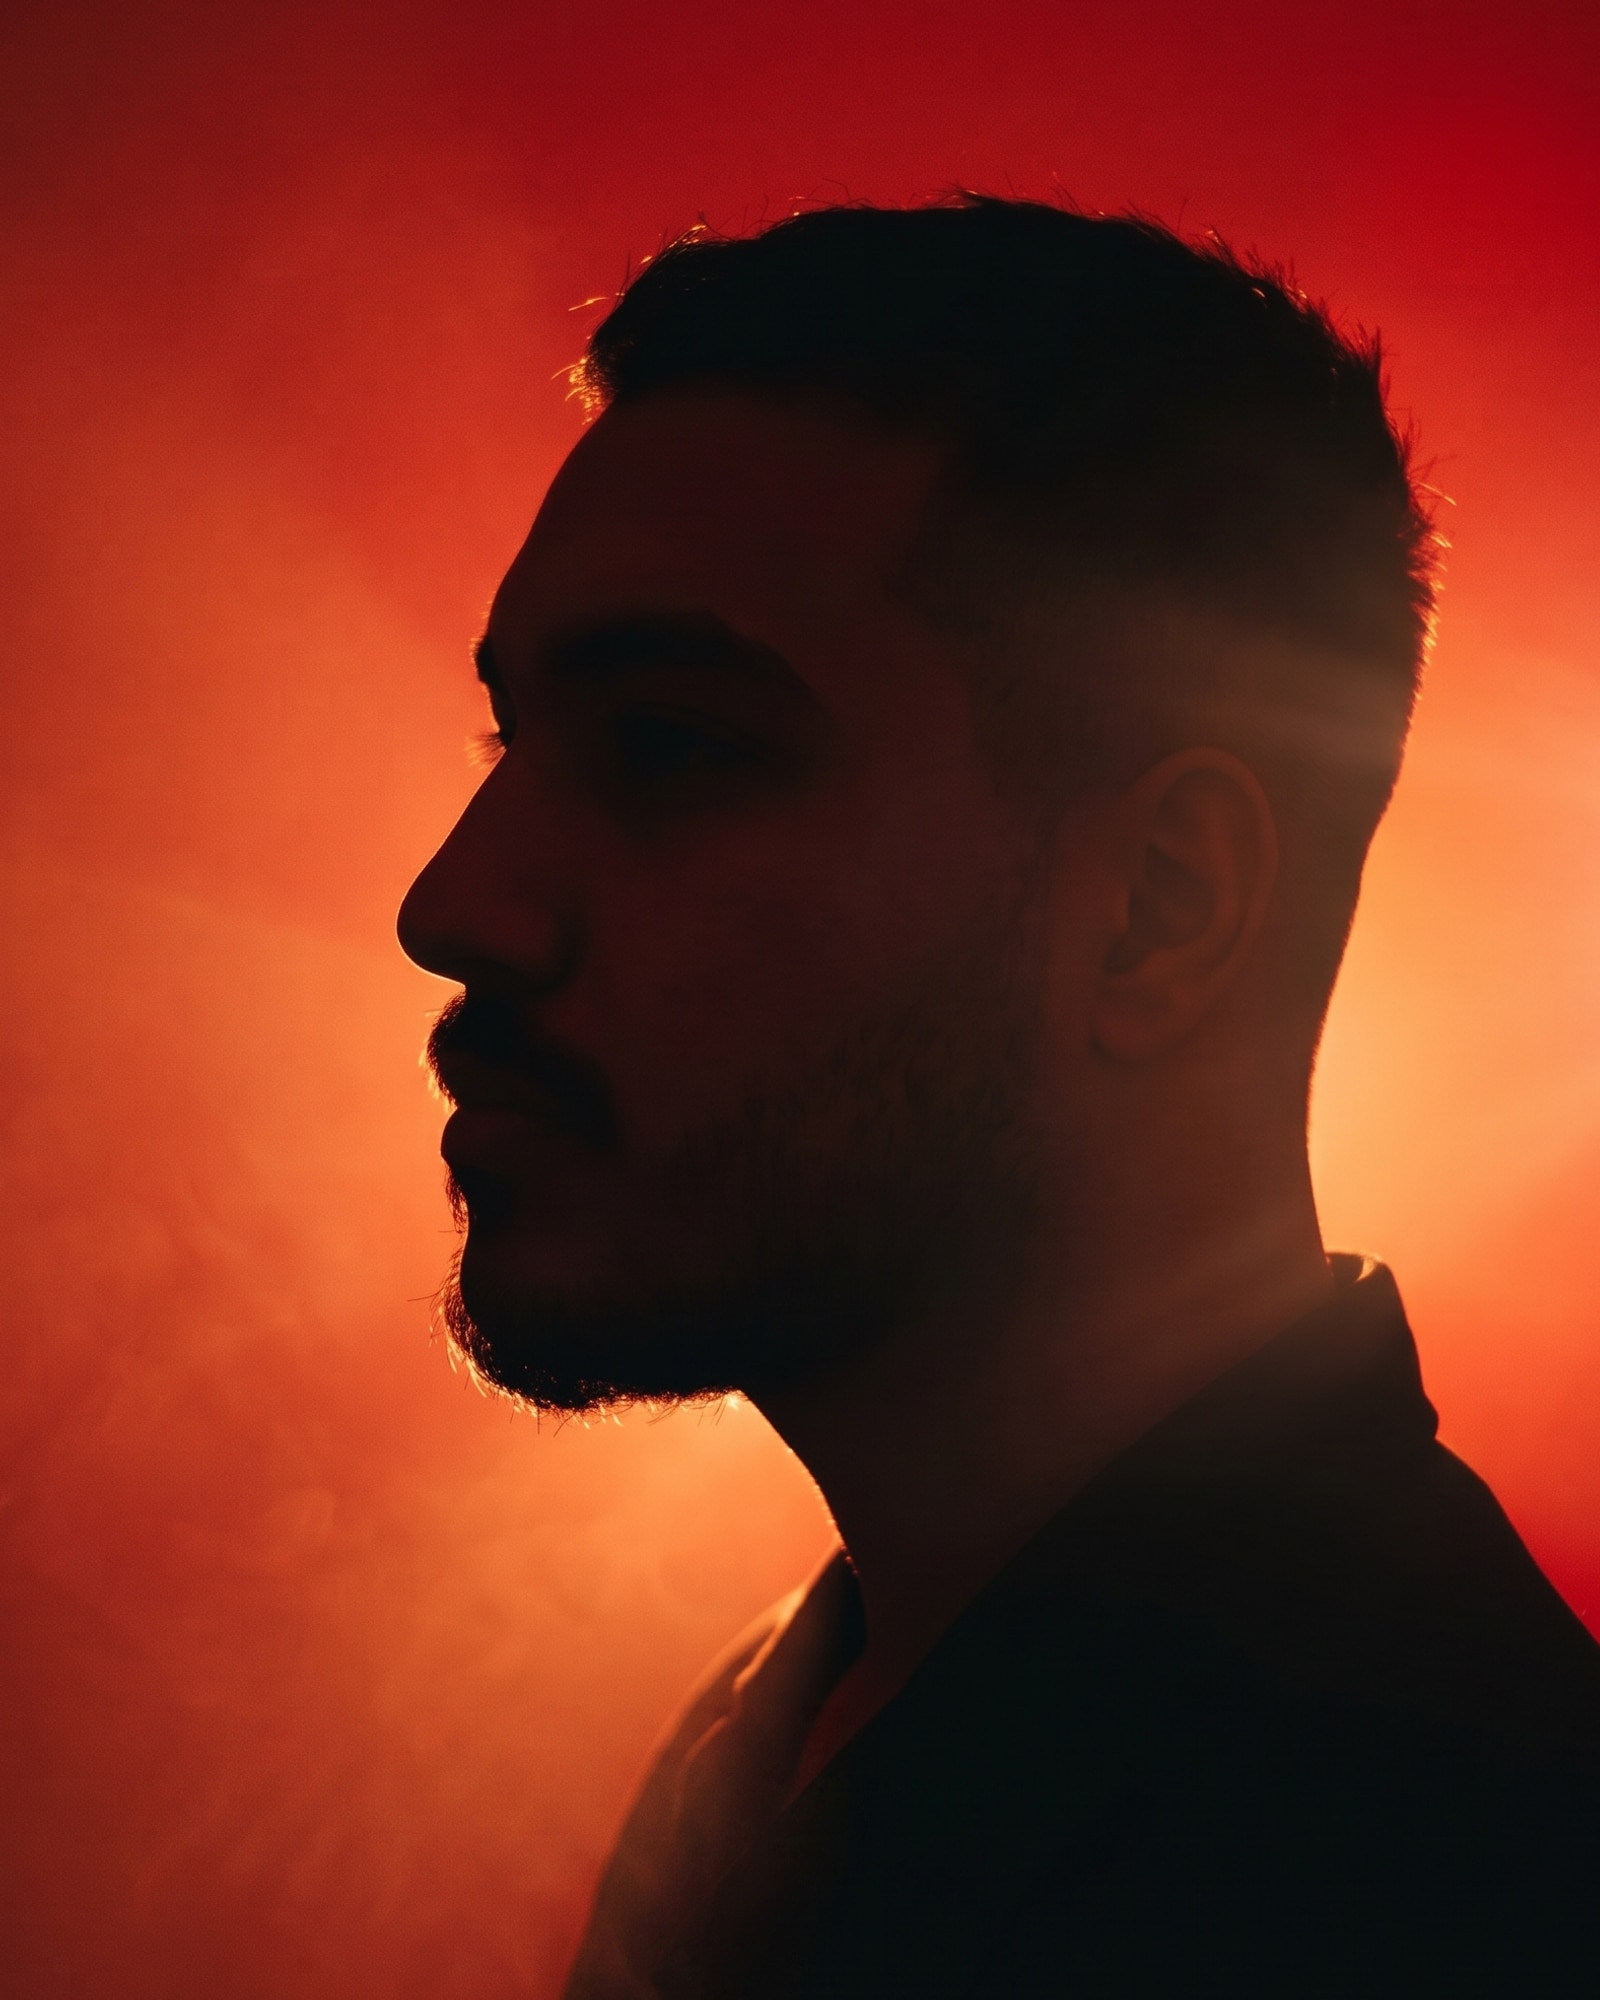
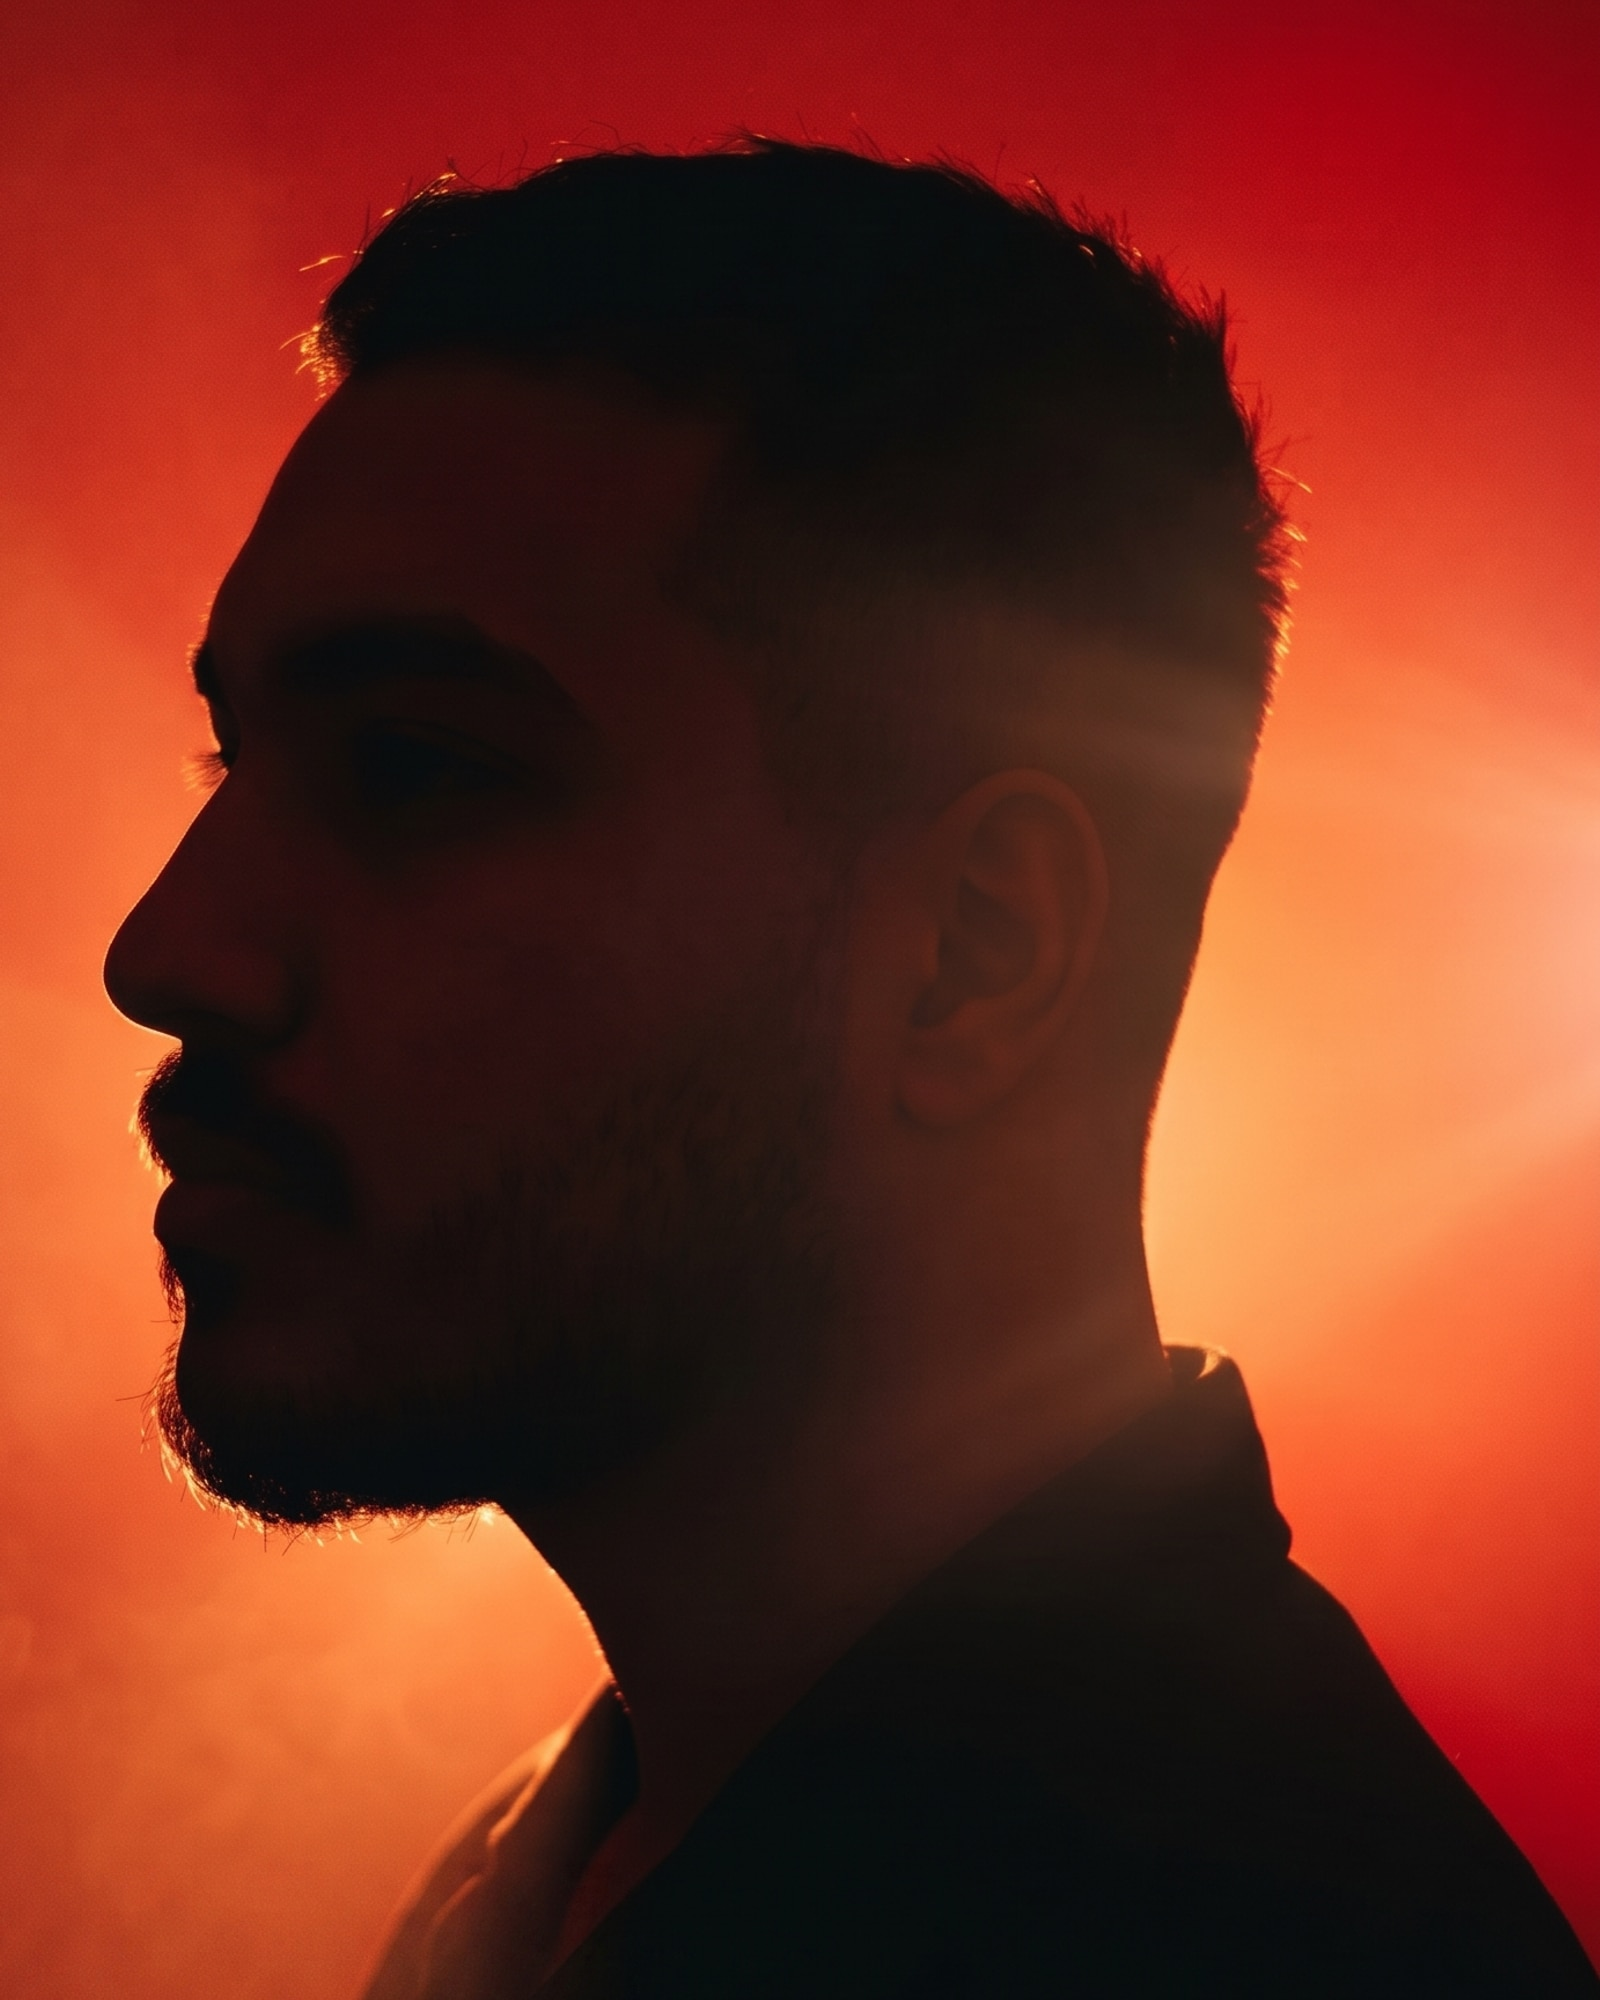
Add 1920x1080 desktop hero that keeps full face framing.

diff --git a/src/components/Hero.tsx b/src/components/Hero.tsx
@@ -24,6 +24,7 @@ export function Hero() {
           transition={{ duration: 1.6, ease: [0.22, 1, 0.36, 1] }}
           className="absolute inset-0"
         >
+          {/* Narrow / mobile: original portrait framing (the look you liked) */}
           <Image
             src="/images/hero-silhouette.jpg"
             alt="Ario Kaveh cinematic portrait"
@@ -31,7 +32,17 @@ export function Hero() {
             priority
             quality={93}
             sizes="100vw"
-            className="object-cover object-[center_36%] md:object-[center_32%]"
+            className="object-cover object-[center_36%] lg:hidden"
+          />
+          {/* 1920x1080+: dedicated 16:9 compose so full face stays visible like mobile */}
+          <Image
+            src="/images/hero-desktop-1080.jpg"
+            alt="Ario Kaveh cinematic portrait"
+            fill
+            priority
+            quality={93}
+            sizes="100vw"
+            className="hidden object-cover object-center lg:block"
           />
         </motion.div>
         <div className="hero-veil absolute inset-0" />

diff --git a/src/app/layout.tsx b/src/app/layout.tsx
@@ -27,13 +27,13 @@ export const metadata: Metadata = {
     title: `${site.name} · ${site.title}`,
     description: site.description,
     type: "website",
-    images: [{ url: "/images/hero-face-wide.jpg" }],
+    images: [{ url: "/images/hero-desktop-1080.jpg" }],
   },
   twitter: {
     card: "summary_large_image",
     title: `${site.name} · ${site.title}`,
     description: site.description,
-    images: ["/images/hero-face-wide.jpg"],
+    images: ["/images/hero-desktop-1080.jpg"],
   },
   robots: { index: true, follow: true },
   icons: {
